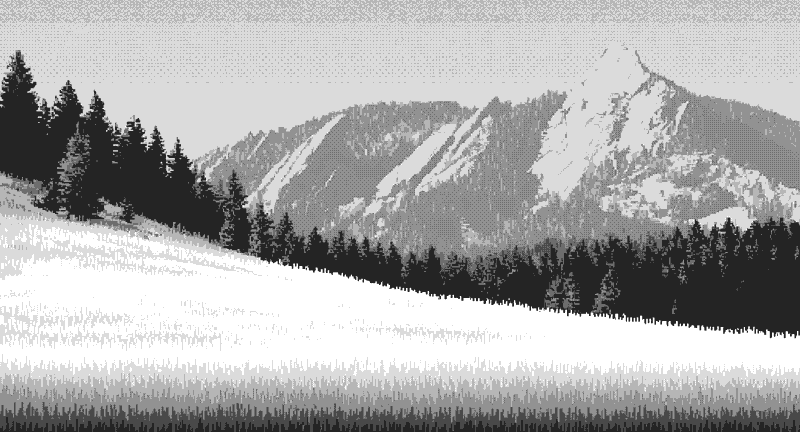
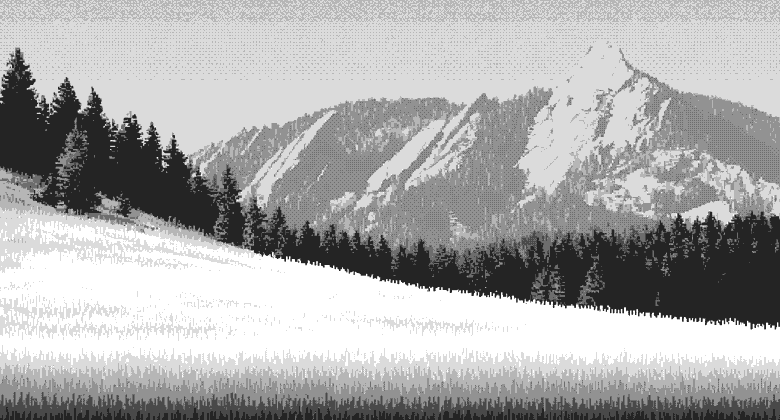
Cut the plates to the real 780x420 art area and record why

diff --git a/flatirons/scene.js b/flatirons/scene.js
@@ -25,18 +25,26 @@
 // evening in production. Same lesson art-dashboard already learned.
 export const TIME_ZONE = "America/Denver";
 
-// The art is 800x432, not 800x480. TRMNL's title bar takes the bottom 48px,
-// and 432 divides into 3 rows of exactly 144px — so tiles land on whole
-// pixels and their edges can't shimmer.
-export const ART_W = 800;
-export const ART_H = 432;
+// The art area is 780x420, not the full 800x480. The framework computes it:
+//
+//   width  = screen-w - (gap * 2)              = 800 - 20 = 780
+//   height = screen-h - (gap * 2) - title-bar  = 480 - 20 - 40 = 420
+//
+// with --gap 10px and --title-bar-height 40px. Both divide cleanly by the
+// grid: 780/4 = 195, 420/3 = 140, so tiles land on whole pixels and their
+// edges can't shimmer against the dither.
+//
+// The plates are cut to exactly this size so the browser never rescales them
+// — resampling an ordered dither is what turns it to mush.
+export const ART_W = 780;
+export const ART_H = 420;
 
 export const COLS = 4;
 export const ROWS = 3;
 export const TILES = COLS * ROWS; // 12
 
-export const TILE_W = ART_W / COLS; // 200
-export const TILE_H = ART_H / ROWS; // 144
+export const TILE_W = ART_W / COLS; // 195
+export const TILE_H = ART_H / ROWS; // 140
 
 // The four lighting states. Named here so both the plate route and the
 // scene builder agree on what's valid — and so the plate route can reject

diff --git a/flatirons/DECISIONS.md b/flatirons/DECISIONS.md
@@ -141,3 +141,35 @@ reviewed but are not wired up yet.
   decouple sky from mountain, which currently move together.
 - **What happens between 21:00 and midnight**, once all twelve are revealed.
 - **Timezone is hardcoded to Denver**, as in `art-dashboard`.
+
+---
+
+## 10 · Bleed margin stays ON, and the art is 780×420
+
+**Earlier we said:** set "Remove bleed margin" to Yes, so the art could be a
+full 800px wide.
+
+**We now do:** leave it at the default No.
+
+**Why:** every piece of breathing room in the framework comes from
+`var(--gap)`. Removing the bleed margin zeroes it, which also removes the
+space beneath the title bar — the text then sits directly on the physical
+bottom edge of the panel.
+
+That also fixed the arithmetic. The framework computes the art area itself:
+
+    .layout:has(+.title_bar) {
+      height: calc(var(--screen-h) - var(--gap)*2 - var(--title-bar-height));
+    }
+
+With `--gap: 10px` and `--title-bar-height: 40px` (not the 48 first assumed),
+the art area is **780 × 420**. Both divide cleanly by the grid — 780/4 = 195,
+420/3 = 140 — so tiles land on whole pixels.
+
+The plates are cut to exactly 780×420 so the browser never rescales them.
+Resampling an ordered dither is what turns it to mush, and `object-fit` was
+quietly doing that at 800×432.
+
+**The general lesson:** the framework already calculates this. Hardcoding a
+height means maintaining a number it owns, and getting it wrong by 12px is
+what pushed the title bar off-screen in the first place.
